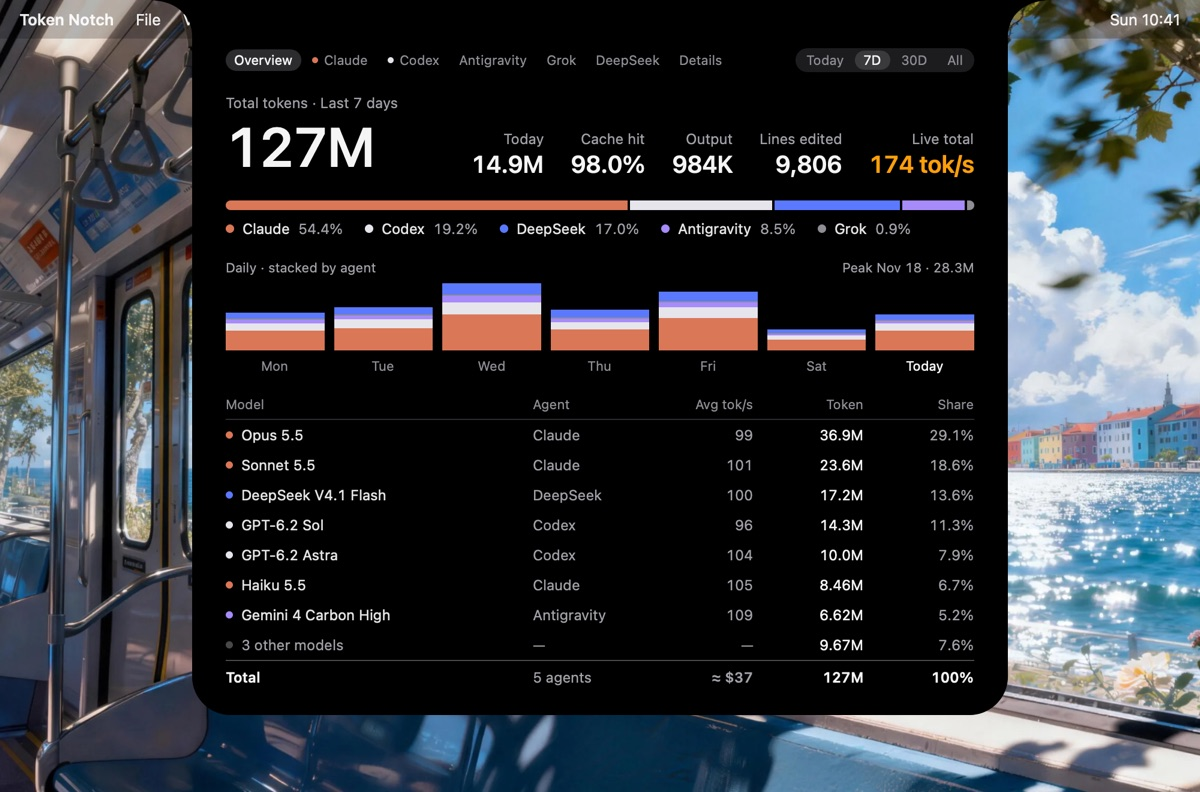
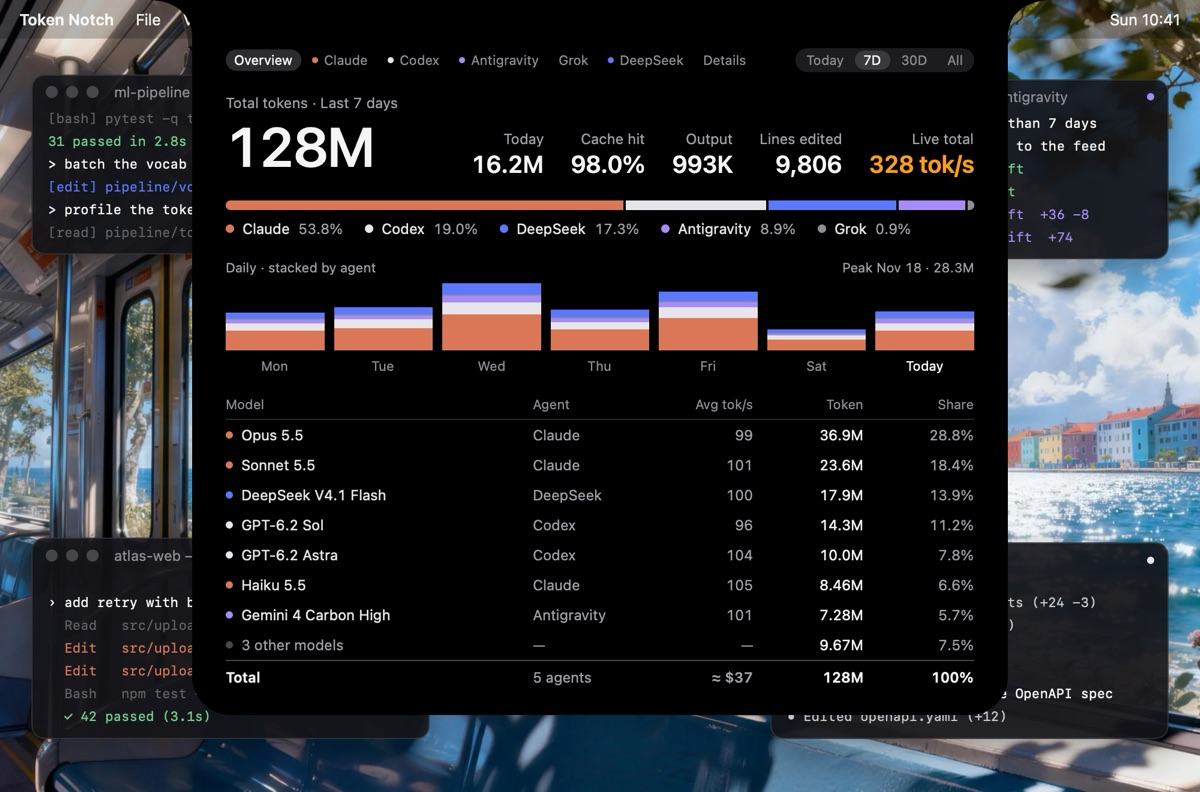
demo: 演示视频加上 agent 窗口、换成桌面壁纸、节奏加快
- 桌面上多了 Claude、Codex、DeepSeek Harness、Antigravity 四个窗口，内容随时间往下滚（虚构）
- 演示数据里这四个 agent 都在跑，两翼的分页点和标签上的活动点对应得上
- 时间线从 20 秒压到 13 秒
- GIF 直接从逐帧图片生成、用有序抖动：照片背景下静止区域帧间差为零，2.5MB（原先经 MP4 转会有 26MB）
- 各页截图改成 JPEG（带照片背景的 PNG 每张 2~4MB）

diff --git a/Sources/TokenNotch/DemoVideo.swift b/Sources/TokenNotch/DemoVideo.swift
@@ -72,6 +72,9 @@ enum DemoVideo {
         let claude = live.first { $0.agent == .claude } ?? LiveStat(agent: .claude, today: 0, lastActivity: Date(), tokPerSec: 128)
         let codex = live.first { $0.agent == .codex } ?? LiveStat(agent: .codex, today: 0, lastActivity: Date(), tokPerSec: 46)
 
+        // 两翼轮播：Claude、Codex 打头，其余正在跑的 agent 跟在后面
+        let active = [claude, codex] + live.filter { $0.agent != .claude && $0.agent != .codex }
+
         func key(_ state: NotchState, active: [LiveStat]? = nil, rotation: Int = 0,
                  tab: PanelTab = .overview, range: TimeRange = .week) -> Key? {
             model.forced = state
@@ -89,8 +92,8 @@ enum DemoVideo {
         }
 
         guard let idle = key(.idle, active: []),
-              let wingsA = key(.active, active: [claude, codex], rotation: 0),
-              let wingsB = key(.active, active: [claude, codex], rotation: 1),
+              let wingsA = key(.active, active: active, rotation: 0),
+              let wingsB = key(.active, active: active, rotation: 1),
               let overview = key(.expanded, tab: .overview, range: .week),
               let agent = key(.expanded, tab: .agent(.claude), range: .week),
               let detail = key(.expanded, tab: .detail, range: .month),
@@ -134,38 +137,42 @@ enum DemoVideo {
         let close = { (t: Double) in spring(t, response: 0.3, damping: 0.96) }
         let page = { (t: Double) in ease(t / 0.3) }
 
-        hold(idle, 0.9)
-        transition(idle, wingsA, 0.7, shape: wings, outA: { _ in 1 }, inB: { fadeIn($0, delay: 0.08, dur: 0.2) })
-        hold(wingsA, 1.5)
-        transition(wingsA, wingsB, 0.45, shape: { _ in 1 }, outA: { 1 - ease($0 / 0.45) }, inB: { ease($0 / 0.45) })
-        hold(wingsB, 0.9, moveTo: notch, moveDur: 0.8)
-        transition(wingsB, overview, 0.9, shape: open, outA: { 1 - ease($0 / 0.09) },
-                   inB: { fadeIn($0, delay: 0.12, dur: 0.24) })
-        hold(overview, 2.4, moveTo: CGPoint(x: canvas.width / 2 + 40, y: 230), moveDur: 0.7)
-        hold(overview, 0.6, moveTo: tabClaude, moveDur: 0.55)
-        click(overview)
-        transition(overview, agent, 0.4, shape: page, outA: { 1 - ease($0 / 0.2) }, inB: { ease($0 / 0.25) })
-        hold(agent, 2.4)
-        hold(agent, 0.6, moveTo: tabDetail, moveDur: 0.55)
-        click(agent)
-        transition(agent, detail, 0.4, shape: page, outA: { 1 - ease($0 / 0.2) }, inB: { ease($0 / 0.25) })
-        hold(detail, 2.6)
-        hold(detail, 0.7, moveTo: rest, moveDur: 0.6)
-        transition(detail, wingsB, 0.6, shape: close, outA: { 1 - ease($0 / 0.09) },
-                   inB: { fadeIn($0, delay: 0.15, dur: 0.2) })
-        hold(wingsB, 1.2)
-        transition(wingsB, idle, 0.6, shape: wings, outA: { 1 - ease($0 / 0.1) }, inB: { _ in 0 })
         hold(idle, 0.5)
+        transition(idle, wingsA, 0.6, shape: wings, outA: { _ in 1 }, inB: { fadeIn($0, delay: 0.08, dur: 0.2) })
+        hold(wingsA, 0.9)
+        transition(wingsA, wingsB, 0.4, shape: { _ in 1 }, outA: { 1 - ease($0 / 0.4) }, inB: { ease($0 / 0.4) })
+        hold(wingsB, 0.65, moveTo: notch, moveDur: 0.55)
+        transition(wingsB, overview, 0.8, shape: open, outA: { 1 - ease($0 / 0.09) },
+                   inB: { fadeIn($0, delay: 0.12, dur: 0.24) })
+        hold(overview, 1.5, moveTo: CGPoint(x: canvas.width / 2 + 40, y: 230), moveDur: 0.5)
+        hold(overview, 0.45, moveTo: tabClaude, moveDur: 0.4)
+        click(overview)
+        transition(overview, agent, 0.35, shape: page, outA: { 1 - ease($0 / 0.2) }, inB: { ease($0 / 0.25) })
+        hold(agent, 1.5)
+        hold(agent, 0.45, moveTo: tabDetail, moveDur: 0.4)
+        click(agent)
+        transition(agent, detail, 0.35, shape: page, outA: { 1 - ease($0 / 0.2) }, inB: { ease($0 / 0.25) })
+        hold(detail, 1.7)
+        hold(detail, 0.5, moveTo: rest, moveDur: 0.45)
+        transition(detail, wingsB, 0.55, shape: close, outA: { 1 - ease($0 / 0.09) },
+                   inB: { fadeIn($0, delay: 0.15, dur: 0.2) })
+        hold(wingsB, 0.8)
+        transition(wingsB, idle, 0.5, shape: wings, outA: { 1 - ease($0 / 0.1) }, inB: { _ in 0 })
+        hold(idle, 0.3)
 
+        // 桌面上的 agent 窗口随时间往下滚
+        let windowStates = DemoDesktop.renderStates()
         for (i, f) in frames.enumerated() {
-            guard let img = compose(background: background, a: f.0, b: f.1, p: f.2, alphaA: f.3, alphaB: f.4,
+            guard let img = compose(background: background, desktop: DemoDesktop.layers(windowStates, at: Double(i) / fps),
+                                    a: f.0, b: f.1, p: f.2, alphaA: f.3, alphaB: f.4,
                                     cursor: f.5, pressed: f.6) else { continue }
             write(img, to: String(format: "%@/frames/%04d.jpg", dir, i), jpeg: true)
         }
         // 静态截图：各页面停稳时的样子
         for (name, k) in [("overview", overview), ("agent", agent), ("detail", detail), ("wings", wingsA)] {
-            if let img = compose(background: background, a: k, b: nil, p: 1, alphaA: 1, alphaB: 0, cursor: nil, pressed: false) {
-                write(img, to: "\(dir)/\(name).png", jpeg: false)
+            if let img = compose(background: background, desktop: DemoDesktop.layers(windowStates, at: 0),
+                                 a: k, b: nil, p: 1, alphaA: 1, alphaB: 0, cursor: nil, pressed: false) {
+                write(img, to: "\(dir)/\(name).jpg", jpeg: true)
             }
         }
     }
@@ -219,7 +226,7 @@ enum DemoVideo {
         return r.cgImage
     }
 
-    static func compose(background: CGImage, a: Key, b: Key?, p: Double, alphaA: Double, alphaB: Double,
+    static func compose(background: CGImage, desktop: [(CGImage, CGRect)] = [], a: Key, b: Key?, p: Double, alphaA: Double, alphaB: Double,
                         cursor: CGPoint?, pressed: Bool) -> CGImage? {
         let pw = Int(canvas.width * scale), ph = Int(canvas.height * scale)
         guard let ctx = CGContext(data: nil, width: pw, height: ph, bitsPerComponent: 8, bytesPerRow: 0,
@@ -238,6 +245,7 @@ enum DemoVideo {
             ctx.restoreGState()
         }
         draw(background, in: CGRect(origin: .zero, size: canvas))
+        for (image, rect) in desktop { draw(image, in: rect) }
 
         let s = b.map { Shape.lerp(a.shape, $0.shape, CGFloat(p)) } ?? a.shape
         let rect = CGRect(x: canvas.width / 2 - s.w / 2, y: 0, width: s.w, height: s.h)

diff --git a/Sources/TokenNotch/DemoDesktop.swift b/Sources/TokenNotch/DemoDesktop.swift
@@ -1,0 +1,136 @@
+import AppKit
+import SwiftUI
+import TokenCore
+
+/// 演示画面里桌面上的几个 agent 窗口：让人一眼看出刘海里的数字是这些 agent 跑出来的。
+/// 窗口里的内容全是虚构的；每隔一小会儿往下滚一行。
+@MainActor
+enum DemoDesktop {
+    enum Tone { case prompt, dim, edit, ok, plain }
+
+    struct Window {
+        var title: String
+        var agent: Agent
+        /// 在画布上的位置（左上角原点）
+        var frame: CGRect
+        var lines: [(Tone, String)]
+    }
+
+    static let visibleLines = 6
+    /// 每隔多久滚一行
+    static let stepEvery = 0.42
+    /// 窗口四周留给阴影的边
+    static let margin: CGFloat = 34
+
+    static let windows: [Window] = [
+        Window(title: "atlas-web — claude", agent: .claude, frame: CGRect(x: 26, y: 448, width: 332, height: 168), lines: [
+            (.prompt, "› add retry with backoff to the uploader"),
+            (.dim, "  Read   src/upload/client.ts"),
+            (.edit, "  Edit   src/upload/client.ts  +18 −4"),
+            (.edit, "  Edit   src/upload/retry.ts   +41"),
+            (.dim, "  Bash   npm test -- upload"),
+            (.ok, "  ✓ 42 passed (3.1s)"),
+            (.prompt, "› now cover the timeout path"),
+            (.dim, "  Read   src/upload/retry.test.ts"),
+            (.edit, "  Edit   src/upload/retry.test.ts  +27 −2"),
+            (.ok, "  ✓ 45 passed (3.4s)"),
+        ]),
+        Window(title: "api-gateway — codex", agent: .codex, frame: CGRect(x: 642, y: 452, width: 332, height: 164), lines: [
+            (.prompt, "› rate-limit the /export endpoint"),
+            (.dim, "• Ran rg \"export\" src/routes"),
+            (.plain, "• Edited src/routes/export.ts (+24 −3)"),
+            (.plain, "• Edited src/limits.ts (+31)"),
+            (.dim, "• Ran pnpm test export"),
+            (.ok, "  18 passed"),
+            (.prompt, "› add a 429 response to the OpenAPI spec"),
+            (.plain, "• Edited openapi.yaml (+12)"),
+        ]),
+        Window(title: "ml-pipeline — dsh", agent: .deepseek, frame: CGRect(x: 26, y: 62, width: 300, height: 150), lines: [
+            (.prompt, "> profile the tokenizer stage"),
+            (.dim, "[read] pipeline/tokenize.py"),
+            (.dim, "[bash] python -m cProfile -s cumtime"),
+            (.edit, "[edit] pipeline/tokenize.py +12 −9"),
+            (.dim, "[bash] pytest -q tests/tokenize"),
+            (.ok, "31 passed in 2.8s"),
+            (.prompt, "> batch the vocab lookups"),
+            (.edit, "[edit] pipeline/vocab.py +22 −15"),
+        ]),
+        Window(title: "ios-client — Antigravity", agent: .antigravity, frame: CGRect(x: 690, y: 66, width: 284, height: 150), lines: [
+            (.prompt, "Add an offline cache to the feed"),
+            (.ok, "✓ Read FeedStore.swift"),
+            (.ok, "✓ Read FeedView.swift"),
+            (.edit, "✓ Edit FeedStore.swift  +36 −8"),
+            (.edit, "✓ Write FeedCache.swift  +74"),
+            (.dim, "● Running xcodebuild test"),
+            (.ok, "✓ 23 tests passed"),
+            (.prompt, "Evict entries older than 7 days"),
+        ]),
+    ]
+
+    /// 每个窗口滚到各个位置时的画面：第 k 张以第 k 行结尾（内容循环）。
+    static func renderStates() -> [[CGImage]] {
+        windows.map { w in
+            (0..<w.lines.count).compactMap { k in
+                let shown = (0..<visibleLines).map { w.lines[(k - visibleLines + 1 + $0 + w.lines.count * 2) % w.lines.count] }
+                let view = DemoWindowView(window: w, lines: shown).padding(margin)
+                let r = ImageRenderer(content: view)
+                r.scale = DemoVideo.scale
+                return r.cgImage
+            }
+        }
+    }
+
+    /// 时刻 t 各窗口该画哪一张、画在哪。几个窗口错开滚动，不同时跳。
+    static func layers(_ states: [[CGImage]], at t: Double) -> [(CGImage, CGRect)] {
+        zip(windows, states).enumerated().compactMap { i, pair in
+            let (w, images) = pair
+            guard !images.isEmpty else { return nil }
+            let step = Int(t / stepEvery + Double(i) * 0.37) + visibleLines - 1 + i * 2
+            return (images[step % images.count], w.frame.insetBy(dx: -margin, dy: -margin))
+        }
+    }
+}
+
+private struct DemoWindowView: View {
+    var window: DemoDesktop.Window
+    var lines: [(DemoDesktop.Tone, String)]
+
+    var body: some View {
+        VStack(spacing: 0) {
+            HStack(spacing: 7) {
+                ForEach(0..<3, id: \.self) { _ in Circle().fill(Palette.divider).frame(width: 10, height: 10) }
+                Text(window.title).font(.system(size: 12)).foregroundStyle(Palette.text3).padding(.leading, 6)
+                Spacer()
+                Circle().fill(Palette.agent(window.agent)).frame(width: 6, height: 6)
+            }
+            .padding(.horizontal, 12)
+            .frame(height: 30)
+            VStack(alignment: .leading, spacing: 5) {
+                ForEach(Array(lines.enumerated()), id: \.offset) { _, line in
+                    Text(line.1)
+                        .font(.system(size: 11, design: .monospaced))
+                        .foregroundStyle(color(line.0))
+                        .lineLimit(1)
+                }
+            }
+            .padding(.horizontal, 14)
+            .padding(.bottom, 12)
+            .frame(maxWidth: .infinity, maxHeight: .infinity, alignment: .bottomLeading)
+        }
+        .frame(width: window.frame.width, height: window.frame.height)
+        .background(RoundedRectangle(cornerRadius: 11, style: .continuous).fill(Color(red: 0.08, green: 0.08, blue: 0.095).opacity(0.9)))
+        .overlay(RoundedRectangle(cornerRadius: 11, style: .continuous).strokeBorder(Color.white.opacity(0.12), lineWidth: 1))
+        .shadow(color: .black.opacity(0.4), radius: 16, y: 10)
+        .environment(\.colorScheme, .dark)
+    }
+
+    func color(_ tone: DemoDesktop.Tone) -> Color {
+        switch tone {
+        case .prompt: return Palette.text
+        case .dim: return Palette.grayBar
+        case .edit: return window.agent == .codex ? Palette.text2 : Palette.agent(window.agent)
+        case .ok: return Color(red: 0.44, green: 0.81, blue: 0.56)
+        case .plain: return Color(white: 0.78)
+        }
+    }
+}

diff --git a/Sources/TokenCore/DemoData.swift b/Sources/TokenCore/DemoData.swift
@@ -77,8 +77,9 @@ public enum DemoData {
                 }
             }
         }
-        // 最近几十秒内的响应：让 Claude 和 Codex 显示为“正在运行”，并有实时 tok/s
-        for (agent, model, tps) in [(Agent.claude, "claude-opus-5-5", 128.0), (.codex, "gpt-6.2-sol", 46.0)] {
+        // 最近几十秒内的响应：让这几个 agent 显示为“正在运行”，并有实时 tok/s
+        for (agent, model, tps) in [(Agent.claude, "claude-opus-5-5", 128.0), (.codex, "gpt-6.2-sol", 46.0),
+                                    (.deepseek, "deepseek-v4.1-flash", 96.0), (.antigravity, "gemini-4-carbon-high", 58.0)] {
             for k in 0..<4 {
                 let output: Int64 = 900 + Int64(k) * 150
                 events.append(UsageEvent(

diff --git a/README.md b/README.md
@@ -42,12 +42,12 @@
 
 <table>
 <tr>
-<td><img src="docs/images/overview.png" alt="Overview page"></td>
-<td><img src="docs/images/agent.png" alt="Agent page"></td>
+<td><img src="docs/images/overview.jpg" alt="Overview page"></td>
+<td><img src="docs/images/agent.jpg" alt="Agent page"></td>
 </tr>
 <tr>
-<td><img src="docs/images/detail.png" alt="Details page"></td>
-<td><img src="docs/images/wings.png" alt="Wings while an agent is running"></td>
+<td><img src="docs/images/detail.jpg" alt="Details page"></td>
+<td><img src="docs/images/wings.jpg" alt="Wings while an agent is running"></td>
 </tr>
 </table>
 
